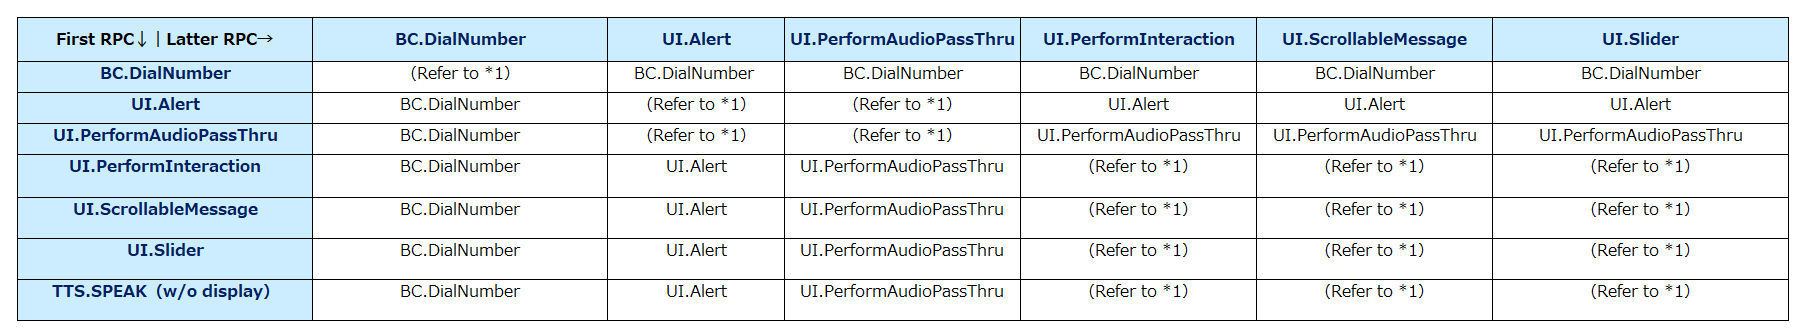
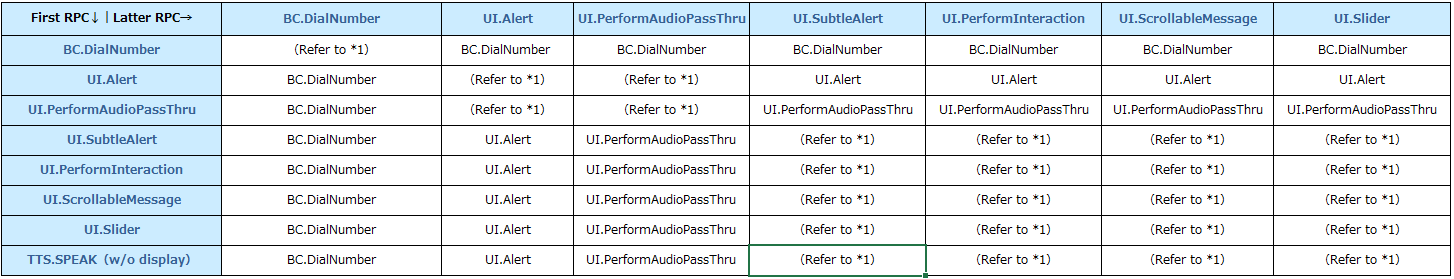
Revise 0315 - Add RPC conflict management (#1101)
* Modify proposal documentation of Add RPC Conflict Management

* Change image files of Add RPC Conflict Management

* Modify proposal documentation of Add RPC Conflict Management

* Modify proposal documentation of Add RPC Conflict Management

* Change image files of Add RPC Conflict Management

diff --git a/proposals/0315-Add-RPC-Conflict-Management.md b/proposals/0315-Add-RPC-Conflict-Management.md
@@ -22,25 +22,25 @@ The example above shows that the latter RPC `PerformAudioPassThru` is displayed 
 To solve these problems, we propose to add a new RPC conflict management function to SDL Core.
 
 ## Proposed solution
-To implement the RPC conflict management, we will add a new RPC conflict management module, `InterruptManager` to SDL Core, and add `InterruptManagerConfig` to policy table.
+To implement the RPC conflict management, we will add a new RPC conflict management module, `InterruptManager` to SDL Core, and add `rpc_priority_table` to policy table.
 
-RPC priority table and `App Priority` table are specified in `InterruptManagerConfig`. RPC priority table and `App Priority` table are tables that each set the priority of RPC and app. By modifying `InterruptManagerConfig`, an OEM can receive the expected request from SDL Core during RPC conflict. On the other hand, `InterruptManager` reads `InterruptManagerConfig` in policy table during the SDL Core startup and builds the two tables mentioned above based on their settings. When an RPC conflict occurs, the `InterruptManager` first determines the RPC with a high priority according to the RPC priority table. However, if two competing RPCs have the same priority, then the RPC with the higher priority is determined according to the `App Priority` priority table. Therefore, only one modal RPC to be displayed at a time.
+RPC priority table, App priority table and HMI status priority table are specified in `rpc_priority_table`. RPC priority table, App priority table and HMI status priority table are tables that each set the priority of RPC, app and HMI status. By modifying `rpc_priority_table`, an OEM can receive the expected request from SDL Core during RPC conflict. On the other hand, `InterruptManager` reads `rpc_priority_table` from the policy table to construct the two tables mentioned above based on their settings. When an RPC conflict occurs, the `InterruptManager` first determines the RPC with a high priority according to the RPC priority table. However, if two competing RPCs have the same priority, then the RPC with the higher priority is determined according to the App priority priority table. Therefore, only one modal RPC to be displayed at a time.
 
 #### RPC Conflict Management Configuration Table
-The following tables described in InterruptManagerConfig in the Policy table are explained below.
+The following tables described in `rpc_priority_table` in the Policy table are explained below.
 
 - RPC priority table
-- `AppPriority` table
-- HMI status table
+- App priority table
+- HMI status priority table
 
 The RPC priority will be determined by the order below. Priority order will shift from 1 to 2, from 2 to 3 and from 3 to 4, if the RPCs are same priority.
 
 1. Apps with app priority EMERGENCY.
-2. RPC Priority
-3. App Priority (non-emergency)
-4. HMI Status
+2. RPC priority
+3. App priority (non-emergency)
+4. HMI status priority
 
-<b>RPC Priority Table</b><br>
+<b>RPC priority Table</b><br>
 The RPC priority table describes the priority of each RPC. When multiple RPCs occur at the same time, the RPC with the higher priority is determined according to the RPC priority table. The target RPCs in this proposal are ONS and TTS. ONS RPCs include such as `Alert` and `PerformInteraction`. The RPC priority table can set the priority for each ONS RPC. On the other hand, there are two types of TTS RPCs, TTS with ONS and TTS only. TTS with ONS RPCs shall follow the processed priority of the ONS RPC, while TTS only RPCs can set the priority individually.
 
 Below are the default settings of RPC priority table.
@@ -52,6 +52,7 @@ Below are the default settings of RPC priority table.
 | BC.DialNumber           | 1             | Highest priority |
 | UI.Alert                | 2             |                  |
 | UI.PerformAudioPassThru | 2             |                  |
+| UI.SubtleAlert          | 3             |                  |
 | UI.PerformInteraction   | 3             |                  |
 | UI.ScrollableMessage    | 3             |                  |
 | UI.Slider               | 3             |                  |
@@ -65,14 +66,15 @@ The table below shows how the RPC will be determined by the priority set during 
 
 ![Table_2_Priority_result_of_Table1.png](../assets/proposals/0315-Add-RPC-Conflict-Management/Table_2_Priority_result_of_Table1.png)
 
-(* 1): For RPCs with the same priority, the `App priority` table, which is described later, will be used to determine the priority.
+(* 1): For RPCs with the same priority, the App priority table, which is described later, will be used to determine the priority.
 
 Below shows the Json example for the RPC priority table:
 ```json
-  "RpcPriority":{
+"rpc_priority":{
     "BC.DialNumber": 1,
     "UI.Alert": 2,
     "UI.PerformAudioPassThru": 2,
+    "UI.SubtleAlert": 3,
     "UI.PerformInteraction": 3,
     "UI.ScrollableMessage": 3,
     "UI.Slider": 3,
@@ -83,10 +85,11 @@ Below shows the Json example for the RPC priority table:
 OEMs can modify any RPC priority. For example, if the priority of `UI.PerformInteraction` is modified to "1", its RPC priority will be the same as `BC.DialNumber`.
 
 ```json
-"RpcPriority":{
+"rpc_priority":{
     "BC.DialNumber": 1,
     "UI.Alert": 2,
     "UI.PerformAudioPassThru": 2,
+    "UI.SubtleAlert": 3,
     "UI.PerformInteraction": 1,
     "UI.ScrollableMessage": 3,
     "UI.Slider": 3,
@@ -97,10 +100,11 @@ OEMs can modify any RPC priority. For example, if the priority of `UI.PerformInt
 OEMs can delete any RPC priority. For example, if the priority of `UI.Slider` is deleted as shown below, its priority will be the same as a normal RPC and will be lower than any RPC in the RPC priority table.
 
 ```json
-"RpcPriority":{
+"rpc_priority":{
     "BC.DialNumber": 1,
     "UI.Alert": 2,
     "UI.PerformAudioPassThru": 2,
+    "UI.SubtleAlert": 3,
     "UI.PerformInteraction": 3,
     "UI.ScrollableMessage": 3,
     "TTS.SPEAK": 3
@@ -111,24 +115,25 @@ OEMs can delete any RPC priority. For example, if the priority of `UI.Slider` is
 OEMs can restore the deleted `UI.Slider` and modify its priority. For example, if the priority of `UI.Slider` is modified to "2", its priority will be the same as `UI.Alert` and `UI.PerformAudioPassThru`.
 
 ```json
-"RpcPriority":{
-  	"BC.DialNumber": 1,
+"rpc_priority":{
+    "BC.DialNumber": 1,
     "UI.Alert": 2,
-	"UI.PerformAudioPassThru": 2,
-	"UI.PerformInteraction": 3,
-	"UI.ScrollableMessage": 3,
-	"UI.Slider": 2,
-	"TTS.SPEAK": 3
+    "UI.PerformAudioPassThru": 2,
+    "UI.SubtleAlert": 3,
+    "UI.PerformInteraction": 3,
+    "UI.ScrollableMessage": 3,
+    "UI.Slider": 2,
+    "TTS.SPEAK": 3
 }
 ```
 
 
-<b>`App Priority` Table</b><br>
-`App Priority` priority table describes the priority for each app. When a conflict between RPCs with the same priority in the RPC priority table occurs, the RPC with the higher priority is determined according to `App Priority` table. Below are the default settings of `App Priority` table.
+<b>App priority Table</b><br>
+App priority priority table describes the priority for each app. When a conflict between RPCs with the same priority in the RPC priority table occurs, the RPC with the higher priority is determined according to App priority table. Below are the default settings of App priority table.
 
-<b>Table 3.</b> Default settings of `App Priority` table
+<b>Table 3.</b> Default settings of App priority table
 
-| `app priority` (String) | Priority (INT) | Note (String)     |
+| App priority (String) | Priority (INT) | Note (String)     |
 |:-:                  |:-:            |:-:               |
 | EMERGENCY           | 0             | Top priority     |
 | NAVIGATION          | 1             | Highest priority |
@@ -137,14 +142,25 @@ OEMs can restore the deleted `UI.Slider` and modify its priority. For example, i
 | NORMAL              | 4             |                  |
 | NONE                | 5             | Lowest priority  |
 
-OEMs can modify the `App priority` table and adjust the priority of application according to their own specifications. In fact, since EMERGENCY is set independently as the highest priority, the priority is determined by the items excluding EMERGENCY.
-For RPCs with the same priority, the HMI Status table, which is described later, will be used to determine the priority.
+OEMs can modify the App priority table and adjust the priority of application according to their own specifications. In fact, since EMERGENCY is set independently as the highest priority, the priority is determined by the items excluding EMERGENCY.
+For RPCs with the same priority, the HMI Status priority table, which is described later, will be used to determine the priority.
 
+Below shows the Json example for the App priority table:
+```json
+"app_priority":{
+    "EMERGENCY": 0,
+    "NAVIGATION": 1,
+    "VOICE_COMMUNICATION": 2,
+    "COMMUNICATION": 3,
+    "NORMAL": 4,
+    "NONE": 5
+}
+```
 
-<b>HMI Status Table</b><br>
-HMI Status table describes the priority for each app level. When a conflict between RPCs with the same priority in the RPC priority table and `App priority` table occurs, the RPC with the higher priority is determined according to HMI Status table. Below are the default settings of HMI Status table.
+<b>HMI status priority Table</b><br>
+HMI status priority table describes the priority for each app level. When a conflict between RPCs with the same priority in the RPC priority table and App priority table occurs, the RPC with the higher priority is determined according to HMI status priority table. Below are the default settings of HMI status priority table.
 
-<b>Table 4.</b> Default settings of HMI Status table
+<b>Table 4.</b> Default settings of HMI status priority table
 
 | HMI Level (String) | Priority (INT) | Note (String)    |
 |:-:                 |:-:             |:-:               |
@@ -155,12 +171,52 @@ HMI Status table describes the priority for each app level. When a conflict betw
 
 If two RPCs with the same priority are sent, the second RPC sent will be prioritized.
 
+Below shows the Json example for the HMI status priority table:
+```json
+"hmi_status_priority":{
+    "FULL": 1,
+    "LIMITED": 2,
+    "BACKGROUND": 3,
+    "NONE": 4
+}
+```
+
+Also, below shows the Json example for the `rpc_priority_table` adding in policy table:
+```json
+"rpc_priority_table": {
+    "rpc_priority":{
+        "BC.DialNumber": 1,
+        "UI.Alert": 2,
+        "UI.PerformAudioPassThru": 2,
+        "UI.SubtleAlert": 3,
+        "UI.PerformInteraction": 3,
+        "UI.ScrollableMessage": 3,
+        "UI.Slider": 3,
+        "TTS.SPEAK": 3
+    },
+    "app_priority":{
+        "EMERGENCY": 0,
+        "NAVIGATION": 1,
+        "VOICE_COMMUNICATION": 2,
+        "COMMUNICATION": 3,
+        "NORMAL": 4,
+        "NONE": 5
+    },
+    "hmi_status_priority":{
+        "FULL": 1,
+        "LIMITED": 2,
+        "BACKGROUND": 3,
+        "NONE": 4
+    }
+}
+```
+
 
 #### RPC Conflict Management Module
 The following explains functions of `InterruptManager`.
 
 <b>1.Loading of configuration table</b><br>
-`InterruptManagerConfig` is loaded from policy table during the startup of SDL Core.
+`rpc_priority_table` is loaded from policy table.
 
 <b>2.RPC conflict management processing sequence</b><br>
 The processing sequence during ONS RPCs conflict is shown below.
@@ -185,9 +241,9 @@ The processing sequence during TTS RPC conflict is shown below.
 ## Impact on existing code
 
 1. Add `InterruptManager` to the SDL Core source code to manage RPC conflicts.
-2. Add `InterruptManagerConfig` that sets RPC priority to the policy table file.
+2. Add `rpc_priority_table` that sets RPC priority, App priority and HMI status priority to the policy table file.
 3. Remove the existing RPC conflict management systems from the HMI.
-3. Add guidelines for OEMs such as `InterruptManagerConfig` placement and setting method on SDL Developer Portal (smartdevicelink.com).
+3. Add guidelines for OEMs such as `rpc_priority_table` placement and setting method on SDL Developer Portal (smartdevicelink.com).
 
 
 ## Alternatives considered
